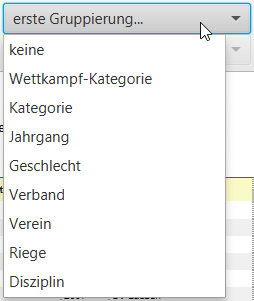
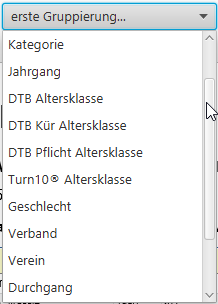
Team-/Mannschaftsranglisten

Changed region(s): [[0.0, 0.0, 1.0, 1.0]]

diff --git a/wettkampf-durchfuhrung/ranglisten_erstellen.md b/wettkampf-durchfuhrung/ranglisten_erstellen.md
@@ -4,14 +4,48 @@ Die Rangliste wird sofort in der Standard-Einstellung gerechnet und angezeigt:
 
 ![](../assets/rangliste-config.png)
 
-|                                                                                                                                                                                                                                                                                                                                                                                                   |                                                  |
-| ------------------------------------------------------------------------------------------------------------------------------------------------------------------------------------------------------------------------------------------------------------------------------------------------------------------------------------------------------------------------------------------------- | ------------------------------------------------ |
-| Nun können sowohl Gruppierungen als auch Filter konfiguriert werden, um die Abgrenzungen nach den eigenen Vorstellungen einzustellen. Mit den vier möglichen Gruppierungskriterien lassen sich auf vier Stufen jeweils eine der folgenden Gruppierungskriterien einstellen: So lässt sich z.B. eine separate Rangliste pro Verband oder pro Verein oder pro Jahrgang/Altersklasse etc. erstellen. | ![](<../assets/rangliste-gruppierungen.png>) |
-| Mit dem Filter lässt sich nach der Gruppierung ein Filter einstellen, dass z.B. mit der Gruppierung "`Geschlecht`" im Filter nur noch die Turnerinnen in der Rangliste aufgeführt werden:                                                                                                                                                                                                         | ![](../assets/rangliste-filter.png)              |
+Wenn Teamregeln für den Wettkampf definiert wurden, und es genügend Teilnehmer gibt, die die Teamregeln erfüllen, kann mit der Auswahl des
+Ranglisten-Typs von Einzelrangliste auf Teamrangliste oder Kombirangliste umgestellt werden.
 
-![](<../assets/rangliste-drucken.png>)
+## Einzelrangliste
+
+In der Einzelrangliste werden die Wertungen pro Turner/-In aufgelistet.
+## Teamrangliste
+
+In der Teamrangliste werden Team-Resultate angezeigt. Diese bilden sich aus den Einzelwertungen. Die Teamregeln bestimmen, wann eine Teamzuordnung und Wertung aus der Einzelrangliste für eine Teamwertung herangezogen wird.
+Wenn mehrere Teamregeln definiert wurden, kann pro Teamregel eine separate Team-Rangliste erstellt werden.
+
+Siehe auch die detailierte Beschreibung für die [Definition von Team Zusammenstellungsregeln](../wettkampf-vorbereitung/wettkampf_uebersicht/teamregeln.md)
+
+## Kombirangliste
+
+Bei der Kombirangliste wird pro Einzelrangliste zur selben Gruppierungs- und Filter-Einstellung und pro Teamregel die Teamrangliste angezeigt.
+
+## Filter und Gruppierungsmöglichkeiten
+
+Nun können sowohl `Gruppierungen`  als auch `Filter` konfiguriert werden, um die Abgrenzungen nach den eigenen Vorstellungen einzustellen. 
+Mit den vier möglichen Gruppierungskriterien lassen sich auf vier Stufen jeweils eine der folgenden Gruppierungskriterien einstellen.
+So lässt sich z.B. eine separate Rangliste pro Verband oder pro Verein oder pro Jahrgang/Altersklasse etc. erstellen.
+
+![](<../assets/rangliste-gruppierungen.png>)
+
+Mit dem `Filter` lässt sich nach der Gruppierung ein Filter einstellen, dass z.B. mit der Gruppierung "`Geschlecht`" im Filter nur noch die Turnerinnen in der Rangliste aufgeführt werden.
+
+![](../assets/rangliste-filter.png)
+
+Sobald mehr als ein Filter Eintrag selektiert ist, kann mit dem Eintrag `alle` bewirkt werden, dass diese in einer Rangliste zusammengefasst werden.
+So ist es z.B. möglich, mehrere Kategorien oder Altersklassen in eine Rangliste zusammenzunehmen.
+
+![](../assets/rangliste-filter-alle.png)
+
+Wenn es z.B. zu wenige Team-Mitglieder in den höheren Leistungsklassen gibt, können diese für die Team-/Manschaftsrangliste zusammengefasst werden:
+
+![](../assets/rangliste-team-alle.png)
+
 
 Am Ende, oder nach jeder gewünschter Ranglisten-Einstellung, lässt sich die Rangliste drucken:
+
+![](<../assets/rangliste-drucken.png>)
 
 1. Je nach Papierformat und ausgewähltem Drucker müssen ev. die Anzahl Zeilen pro Seite justiert werden.
 2. Mit aktivierter Checkbox "`via Browser`" wird die Rangliste als HTML-Datei gespeichert und im Webbrowser geöffnet. In dieser Form lässt sie sich gut im Internet integrieren, aber auch mit jedem aktuellen Web-Browser ausdrucken.

diff --git a/wettkampf-vorbereitung/wettkampf_uebersicht/teamregeln.md b/wettkampf-vorbereitung/wettkampf_uebersicht/teamregeln.md
@@ -1,7 +1,4 @@
-# Teamregeln
-
-Mit den Teamregeln lassen sich Regeln aufstellen, wie sich die Teams im Wettkampf 
-zusammenstellen.
+# Teams / Mannschaften
 
 ## Zusammenstellung der Teams
 
@@ -50,6 +47,9 @@ Aus einem Team werden die n besten Wertungen pro Gerät herangezogen, um das Tea
 
 ## Erfassung der Team-Regel(n)
 
+Mit den Teamregeln lassen sich Regeln aufstellen, wie sich die Teams im Wettkampf 
+zusammenstellen.
+
 Die Regeln für die Teamzusammenstellung müssen im Wettkampf-Bearbeiten Dialog vorgenommen werden.
 »Siehe auch: [Wettkampf anlegen](../../stammdatenpflege/wettkampf_anlegen.md)
 
@@ -59,7 +59,7 @@ Die Regeln für die Teamzusammenstellung müssen im Wettkampf-Bearbeiten Dialog 
 
 ### Legende
 
-* `[]` in eckien Klammern sind optionale Bestandteile. Die eckigen Klammern selbst kommen in der Formel nicht zum Einsatz.
+* `[]` in eckigen Klammern sind optionale Bestandteile. Die eckigen Klammern selbst kommen in der Formel nicht zum Einsatz.
 * `|` Optionale Alternativen. Vor dem `|` Symbol ist z.B. Variante 1 und hinter dem Symbol ist Variante 2. Eine der beiden muss verwendet werden.
 * `<>` in spitzen Klammern sind variable Bestandteile. Der darin vermerkte Text entspricht dem Variablennamen. Die spitzen Klammern selbst kommen in der Formel nicht zum Einsatz.
 * `*` ein Stern bedeutet unbegrenzt und kann für die Maximalanzahl-Teammitglieder verwendet werden.

diff --git a/wettkampf-vorbereitung/README.md b/wettkampf-vorbereitung/README.md
@@ -26,7 +26,7 @@ Für den Workflow ohne Netzwerk \(herkömmlich via EMail, Excel etc.\) existiert
   * [Startreihenfolge in den Geräte-Riegen](wettkampf_uebersicht/riegenrotation.md)
   * [Rangierung bei Punktegleichstand](wettkampf_uebersicht/punktgleichstand.md)
   * [Verwendung von Altersklassen](wettkampf_uebersicht/altersklassen.md)
-  * [Verwendung von Teamregeln](wettkampf_uebersicht/teamregeln.md)
+  * [Teams / Mannschaften](wettkampf_uebersicht/teamregeln.md)
   * [Übersicht der angemeldeten Vereine und Medallienbedarf](wettkampf_uebersicht/README.md)
   * [Turneranmeldungen online verarbeiten](wettkampf_uebersicht/turneranmeldungen_verarbeiten_online.md)
   * [Turneranmeldungen offline verarbeiten](wettkampf_uebersicht/turneranmeldungen_verarbeiten_offline.md)

diff --git a/wettkampf-vorbereitung/wettkampf_uebersicht/altersklassen.md b/wettkampf-vorbereitung/wettkampf_uebersicht/altersklassen.md
@@ -28,7 +28,7 @@ Die Jahrgangs-Altersklasse berechnet sich anhand des Jahrgangs des Teilnehmers, 
 
 ### Legende
 
-* `[]` in eckien Klammern sind optionale Bestandteile. Die eckigen Klammern selbst kommen in der Formel nicht zum Einsatz.
+* `[]` in eckigen Klammern sind optionale Bestandteile. Die eckigen Klammern selbst kommen in der Formel nicht zum Einsatz.
 * `<>` in spitzen Klammern sind variable Bestandteile. Der darin vermerkte Text entspricht dem Variablennamen. Die spitzen Klammern selbst kommen in der Formel nicht zum Einsatz.
 * `...` mit 3 Punkten wird die Fortsetzung einer Reihe angedeutet (verkettung von Elementen). Die Punkte werden in der konkreten Formel nicht verwendet.
 * `,` mit Komma werden die ganze Alterklassen-Elemente verkettet.

diff --git a/wettkampf-vorbereitung/wettkampf_uebersicht/riegenrotation.md b/wettkampf-vorbereitung/wettkampf_uebersicht/riegenrotation.md
@@ -82,7 +82,7 @@ Die Regeln können mit dem entspr. _Code_ hintereinander gereiht werden.
 
 ### Legende
 
-* `[]` in eckien Klammern sind optionale Bestandteile. Die eckigen Klammern selbst kommen in der Formel nicht zum Einsatz.
+* `[]` in eckigen Klammern sind optionale Bestandteile. Die eckigen Klammern selbst kommen in der Formel nicht zum Einsatz.
 * `<>` in spitzen Klammern sind variable Bestandteile. Der darin vermerkte Text entspricht dem Code der Regel. Die spitzen Klammern selbst kommen in der Formel nicht zum Einsatz.
 * `...` mit 3 Punkten wird die Fortsetzung einer Reihe angedeutet (verkettung von Elementen). Die Punkte werden in der konkreten Formel nicht verwendet.
 * `/` mit Slash werden die ganze Regel-Elemente verkettet.

diff --git a/wettkampf-vorbereitung/wettkampf_uebersicht/punktgleichstand.md b/wettkampf-vorbereitung/wettkampf_uebersicht/punktgleichstand.md
@@ -54,7 +54,7 @@ Die `Ohne` Regel, wird als Default verwendet:
 
 ### Legende
 
-* `[]` in eckien Klammern sind optionale Bestandteile. Die eckigen Klammern selbst kommen in der Formel nicht zum Einsatz.
+* `[]` in eckigen Klammern sind optionale Bestandteile. Die eckigen Klammern selbst kommen in der Formel nicht zum Einsatz.
 * `<>` in spitzen Klammern sind variable Bestandteile. Der darin vermerkte Text entspricht dem Code der Regel. Die spitzen Klammern selbst kommen in der Formel nicht zum Einsatz.
 * `...` mit 3 Punkten wird die Fortsetzung einer Reihe angedeutet (verkettung von Elementen). Die Punkte werden in der konkreten Formel nicht verwendet.
 * `/` mit Slash werden die ganze Regel-Elemente verkettet.

diff --git a/stammdatenpflege/wettkampf_anlegen.md b/stammdatenpflege/wettkampf_anlegen.md
@@ -45,7 +45,7 @@ Mit `Individuell` lassen sich die Regeln individuell festlegen. Dabei gbit es fo
     * Zusammenzug der besten Geräte-Wertungen oder der besten Gesamt-Wertungen.
     * Die Teamnummern können auf Vereins- oder Verbandsebene für die Team-Zusammenstellung verwendet werden.
     * Es können mehrere Teamregeln aufgenommen werden. Bei der Online-Anmeldung werden die Teamregeln sichtbar gemacht.
-    * »Siehe auch: [Beschreibung der Teamregeln](../wettkampf-vorbereitung/wettkampf_uebersicht/teamregeln.md)
+    * »Siehe auch: [Beschreibung der Teams / Mannschaften](../wettkampf-vorbereitung/wettkampf_uebersicht/teamregeln.md)
     
 
 Mit "`OK`" wird der Wettkampf angelegt.
